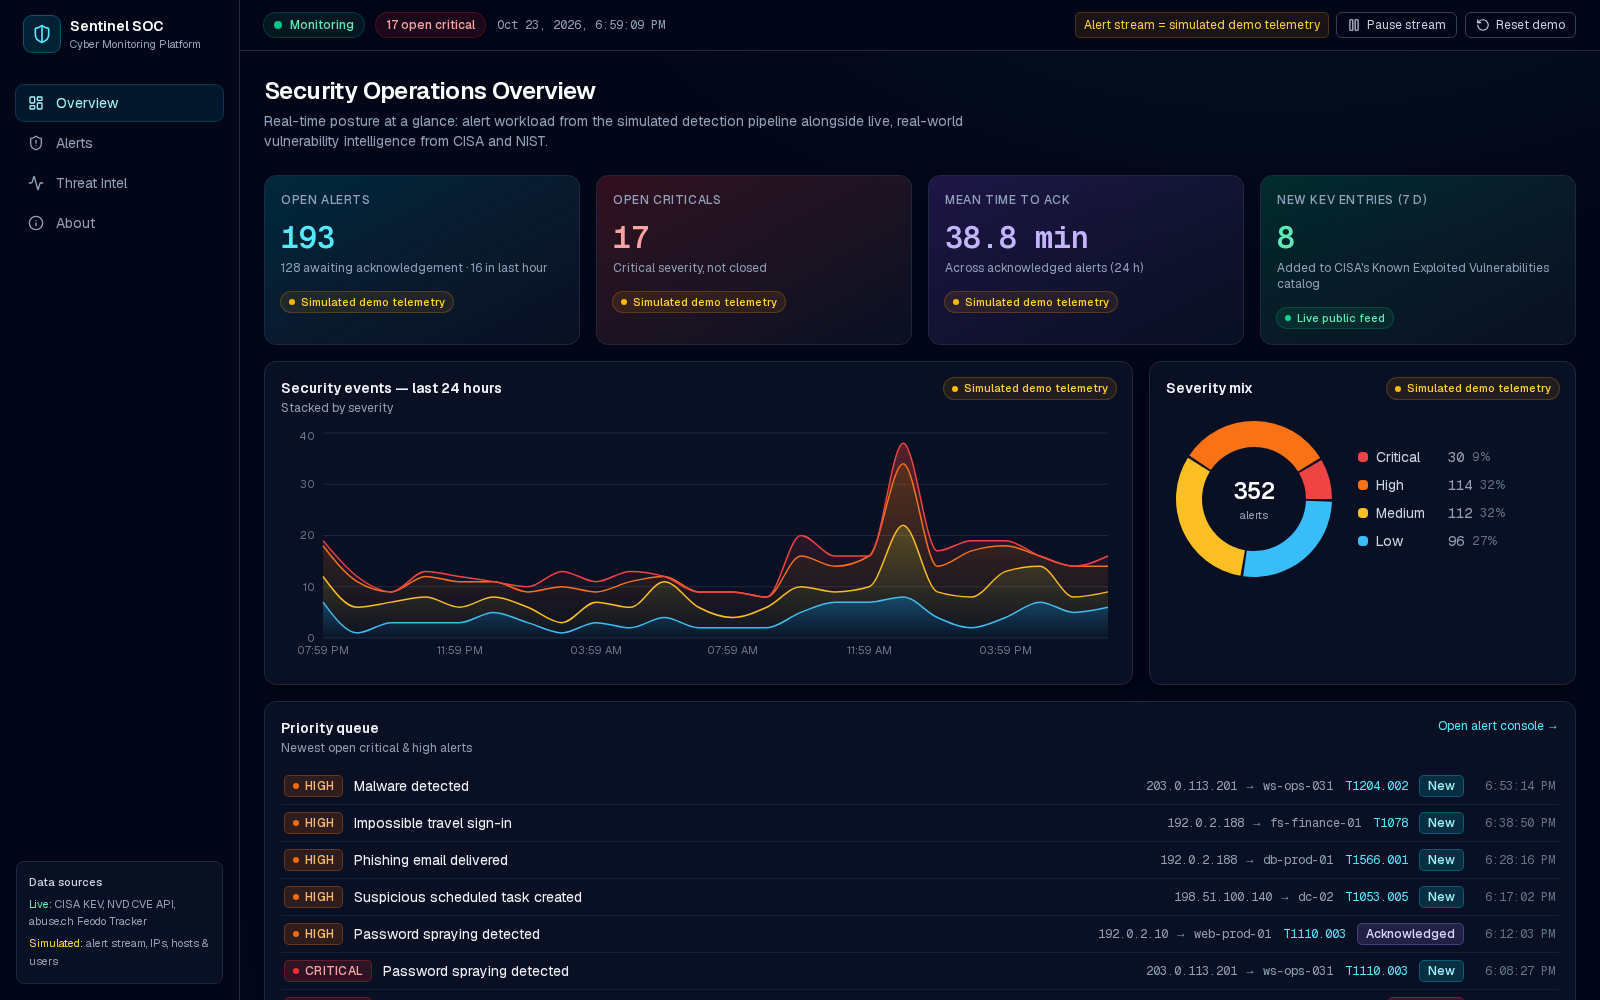
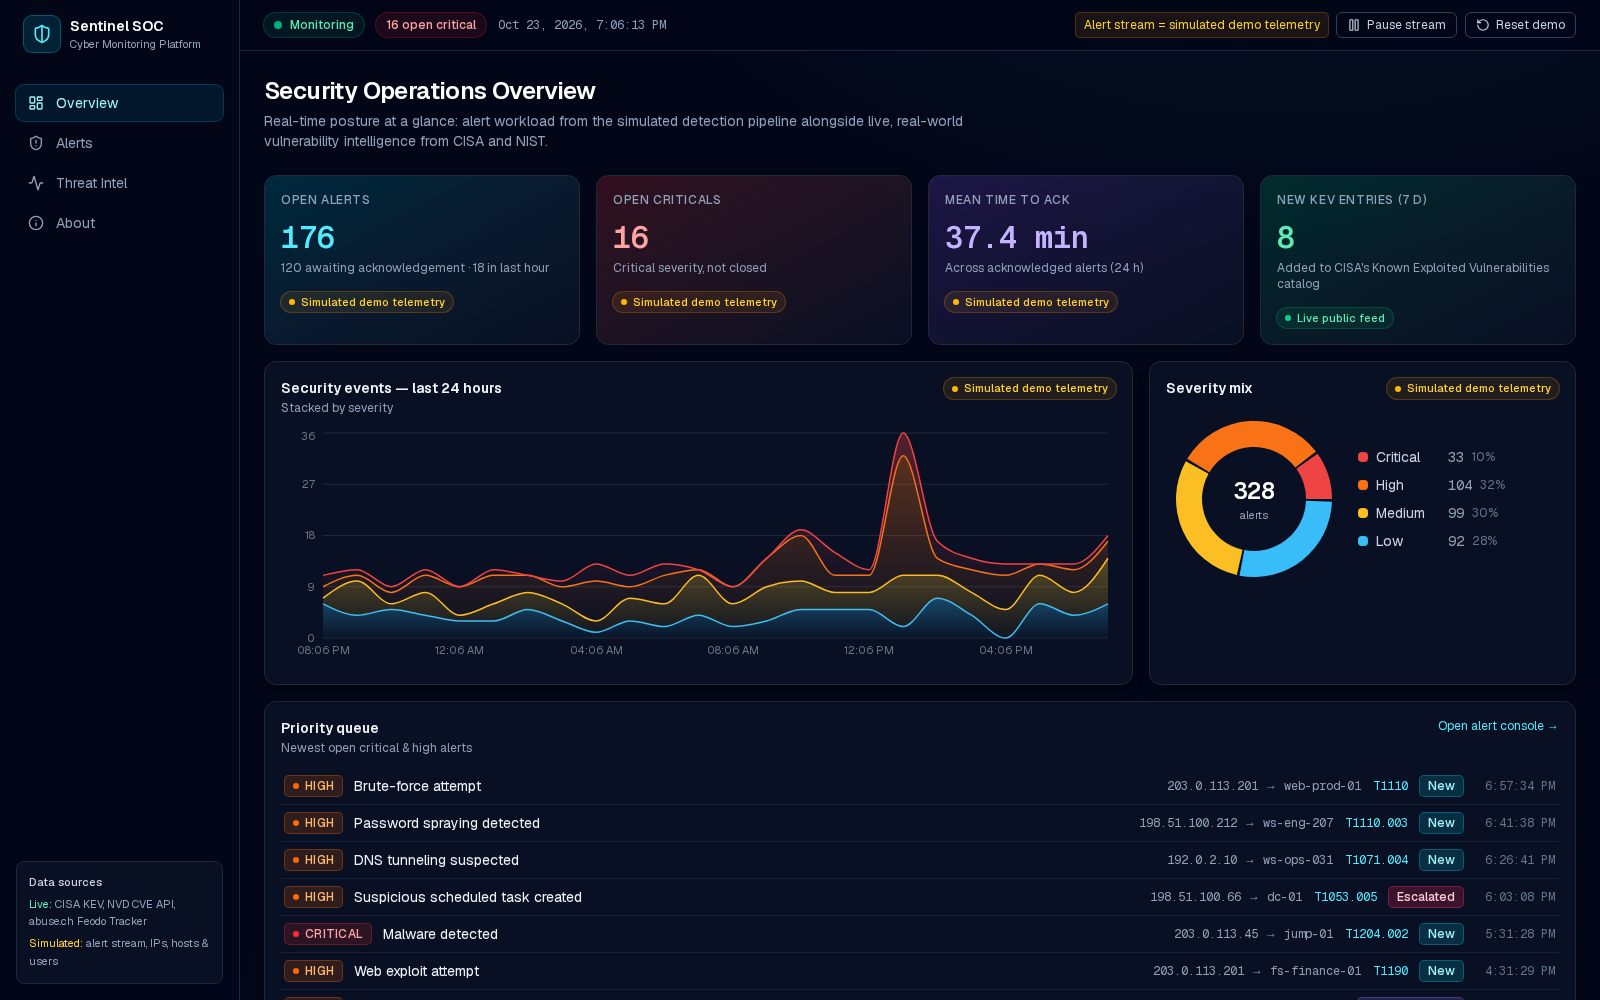
Add live demo URL and production screenshot

diff --git a/README.md b/README.md
@@ -4,7 +4,7 @@ A SOC-style security dashboard that pairs **live, real-world threat intelligence
 
 Built by **Stephanie Jones**, a U.S. military veteran and participant in Google's Launchpad for Veterans (Generative AI Leader) program, as a portfolio project for SOC and security analyst roles.
 
-**Live demo:** _LIVE_URL_
+**Live demo:** https://cyber-monitor-gamma.vercel.app
 
 ![Sentinel SOC overview dashboard](./screenshot.png)
 
